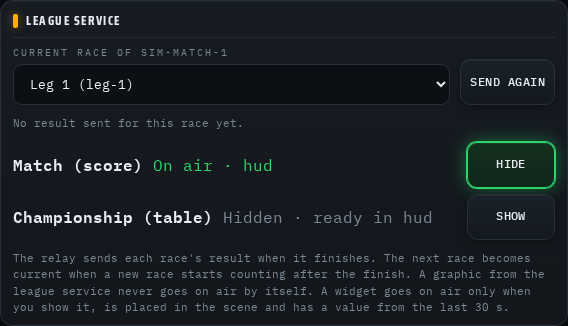
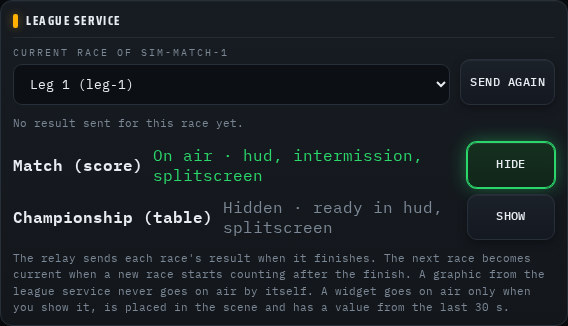
fix(league): ASCII place numbers, a clean widget log line and per-scene browser checks

Changed region(s): [[0.3891, 0.6135, 0.7782, 0.7362], [0.2694, 0.4601, 0.4789, 0.5828], [0.5088, 0.4601, 0.7482, 0.4908]]

diff --git a/tools/e2e-league-widgets.py b/tools/e2e-league-widgets.py
@@ -22,7 +22,7 @@ from unittest.mock import patch
 ROOT = Path(__file__).resolve().parents[1]
 sys.path.insert(0, str(ROOT / "tests"))
 sys.path.insert(0, str(ROOT / "tools" / "event-sim" / "fakes"))
-import e2e_safety  # noqa: E402,F401  local runs take the e2e resource boundary
+import e2e_safety  # noqa: E402
 import test_console_gate as gate  # noqa: E402
 import test_racecast as cli  # noqa: E402
 import test_ui_server as ui  # noqa: E402
@@ -34,6 +34,7 @@ from test_league_result import _Source  # noqa: E402
 
 KEY = "e2e-league-widgets-key"
 HOSTILE = '<img src=x onerror="window.__pwned=1">'
+SCENES = (("hud", 1460, "/hud"), ("intermission", 300, "/intermission"), ("splitscreen", 700, "/splitscreen/hud"))
 SNAP = {"mode": "race", "state": "racing", "lap": 12, "entries": [
     {"pos": 1, "entry": "e1", "driver": "Ann Weber", "team": "Red Bulls", "laps": 12},
     {"pos": 2, "entry": "e2", "driver": "Bo Lind", "team": "Blue Sharks", "laps": 12},
@@ -78,11 +79,27 @@ def builder(page, overlay, shots):
     assert "#league-widget-standings { left: 1460px; top: 330px; width: 420px; height: 330px; font-size: 24px;" in css, css
     if shots:
         page.locator("#ov-modal .ovmodal-card").screenshot(path=str(ROOT / "src/docs/wiki/images/cc-league-widgets.png"))
+    for scene, left, _path in SCENES[1:]:
+        page.select_option("#ov-scene", scene)
+        page.wait_for_function("(s) => ovState.page === s", arg=scene)
+        placed = page.evaluate("ovState.slots.some(s => s.id === 'league-widget-match-score')")
+        assert placed == (scene == "splitscreen"), f"{scene}: a new Split layout starts from the HUD's, {placed}"
+        if not placed:
+            page.click("#league-open")
+            dialog.get_by_role("button", name="Place in this scene").first.click()
+            dialog.get_by_role("button", name="Close", exact=True).click()
+        page.select_option("#ov-slotpick", "league-widget-match-score")
+        page.evaluate("(v) => { const f = ovState.fields.left; f.value = v; f.dispatchEvent(new Event('input'));"
+                      " f.dispatchEvent(new Event('change')); }", left)
+        page.evaluate("saveOverlay()")
+        page.wait_for_function("() => document.getElementById('overlay-save').textContent.includes('Saved')")
+    page.select_option("#ov-scene", "hud")
+    page.wait_for_function("() => ovState.page === 'hud' && ovState.shadow.getElementById('league-widget-match-score')")
     page.evaluate("(label) => RacecastLeague.render(ovState.shadow, {widgets: [{id: 'match-score', form: 'score',"
                   " title: 'Match', holdFor: null, value: {values: [{label, value: '1'}]}}]})", HOSTILE)
     assert score.locator(".lw-label").text_content() == HOSTILE, "the canvas sets a label as text"
     assert score.locator("img").count() == 0 and not page.evaluate("window.__pwned")
-    print("  [PASS] the builder places both widgets with their sample values and saves their style")
+    print("  [PASS] the builder places the widgets per scene with their sample values and saves their style")
 
 
 def live_pages(browser, relay_port, sim, shots):
@@ -109,6 +126,16 @@ def live_pages(browser, relay_port, sim, shots):
     assert hud.locator("#league-widget-match-score .lw-label").text_content() == HOSTILE
     assert hud.locator("#league-widget-match-score img").count() == 0 and not hud.evaluate("window.__pwned")
     sim.clear_answers()
+    for _scene, left, path in SCENES[1:]:
+        view = browser.new_page(viewport={"width": 1920, "height": 1080})
+        view.on("pageerror", lambda error: errors.append(str(error)))
+        view.goto(f"http://127.0.0.1:{relay_port}{path}")
+        view.wait_for_function("() => !document.getElementById('league-widget-match-score').hidden")
+        box = view.locator("#league-widget-match-score").bounding_box()
+        assert box["x"] == left, f"{path}: each scene keeps its own placement: {box}"
+        placed = 2 if path == "/splitscreen/hud" else 1      # the Split layout started from the HUD's
+        assert view.locator("[data-league-widget]").count() == placed, f"{path}: only the placed widgets"
+        view.close()
     panel.wait_for_function("() => document.querySelector('#leagueWidgets .lwrow .lwstate').textContent.startsWith('On air')")
     if shots:
         panel.locator("#leagueSec").screenshot(path=str(ROOT / "src/docs/wiki/images/director-panel-league.png"))
@@ -164,7 +191,8 @@ def main():
 
         def handler(*a, **kw):
             kw.update(overlay_dir=str(overlay), hud_source=SimpleNamespace(data=lambda: {}),
-                      hud_path=str(ROOT / "src/obs/hud.html"), league_live=live, league_exporter=exporter)
+                      hud_path=str(ROOT / "src/obs/hud.html"), intermission_path=str(ROOT / "src/obs/intermission.html"),
+                      league_live=live, league_exporter=exporter)
             return original_handler(*a, **kw)
 
         with patch.object(gate.m, "make_handler", side_effect=handler):
@@ -191,4 +219,7 @@ def main():
 
 
 if __name__ == "__main__":
+    contained = e2e_safety.enter(__file__, sys.argv[1:])
+    if contained is not None:
+        raise SystemExit(contained)
     main()

diff --git a/src/scripts/league_widgets.py b/src/scripts/league_widgets.py
@@ -11,6 +11,7 @@ text: the markup carries no service text but the escaped builder label. Stdlib o
 import html
 import json
 import os
+import re
 import tempfile
 import threading
 
@@ -160,6 +161,7 @@ def placements(overlay_dir):
 
 
 ACTIONS = ("show", "hide", "toggle")
+PLACE_RE = re.compile(r"[1-9]")      # ASCII only: str.isdigit() also takes "²"
 
 
 def order_key(snap):
@@ -237,7 +239,7 @@ class Live:
         if action not in ACTIONS:
             return False, "action must be show, hide or toggle"
         ids = [w["id"] for w in self._event_widgets()]
-        if isinstance(target, str) and target.isdigit() and len(target) <= 2:
+        if isinstance(target, str) and PLACE_RE.fullmatch(target):
             n = int(target)
             if not 1 <= n <= len(ids):
                 return False, f"the event lists {len(ids)} widget(s)"

diff --git a/src/relay/racecast-feeds.py b/src/relay/racecast-feeds.py
@@ -12562,7 +12562,8 @@ def make_handler(relay, panel_path=None, hud_source=None, hud_path=None, assets_
                 ok, out = league_live.set(sub[1], sub[2])
                 if not ok:
                     return self._send({"ok": False, "error": out}, 400)
-                LOG.info("league widget %s: %s", out, sub[2])
+                LOG.info("league widget %s: %s", out.replace("\r", "").replace("\n", ""),
+                         sub[2].replace("\r", "").replace("\n", ""))
                 return self._send({"ok": True, "id": out, "action": sub[2]}, no_store=True)
             if league_exporter is None:
                 return self._send({"error": "league result export unavailable"}, 404)

diff --git a/tests/test_league_widgets.py b/tests/test_league_widgets.py
@@ -269,7 +269,8 @@ def t_the_switch_refuses_a_widget_the_event_does_not_list():
     with tempfile.TemporaryDirectory() as d, league_sim.LeagueSim(key=KEY) as sim:
         live, _snap = _live(d, sim)
         for target, action in (("3", "show"), ("0", "show"), ("other", "show"), ("../x", "show"),
-                               ("match-score", "flip"), ("x" * 40, "show")):
+                               ("match-score", "flip"), ("x" * 40, "show"), ("\u00b2", "show"),
+                               ("\u0661", "show"), ("01", "show")):
             ok, why = live.set(target, action)
             assert not ok and why, (target, action)
 

diff --git a/tools/e2e.py b/tools/e2e.py
@@ -778,6 +778,7 @@ def _check_league_live(base, sim, home, until):
     assert all(1.5 <= g <= 3.0 for g in gaps[-2:]), f"one live state every two seconds: {gaps}"
     body = calls[-1]["body"]
     assert (body["ref"], body["race"], body["mode"]) == (league_sim.DEFAULT_REF, "leg-1", "race"), body
+    assert body["entries"], f"the roster stands in the live state: {body}"
     for row in body["entries"]:
         assert not {"fuel_l", "compound", "x", "z"} & set(row), row
     assert calls[-1]["user_agent"].startswith("racecast/"), calls[-1]

diff --git a/src/docs/wiki/Director.md b/src/docs/wiki/Director.md
@@ -655,13 +655,14 @@ Scenes, feeds and per-feed quality: the live production controls.
 
 Every graphic overlay in one place: the race-condition flags, the flag graphics,
 the pre-race info and starting-grid boards, the standings/results/weather overlays,
-and the per-row grid reveals. The flag rows are colour-coded; the overlay toggles
+the league widget switches and the per-row grid reveals. The flag rows are colour-coded; the overlay toggles
 stay dark and light up while their graphic is on air.
 
 | Row | Buttons |
 |-----|---------|
 | **Flag** | `FLAG GREEN`, `FLAG YELLOW`, `SAFETY CAR`, `FCY` (Full Course Yellow), `RED FLAG`, `CLEAR FLAG`, each sets (or clears) the colour-coded **race-condition flag** HUD element (`/setup/set/flag/<state>`, `CLEAR FLAG` → `/setup/clear/flag`). The flag's vocabulary comes from the sheet's Configuration **Flag** column; these buttons cover the canonical states |
 | **Flag Gfx** | `GFX GREEN`, `GFX YELLOW`, `GFX SC`, `GFX VSC`, `GFX RED`, `GFX CLEAR`: toggles a full-screen flag-status **graphic overlay** in the Stint and Splitscreen scenes, or in Program in solo (`/obs/flag/set/<key>`, `GFX CLEAR` → `/obs/flag/clear`). Exactly one is active at a time; pressing a new one hides the previous. These are the *graphic* alternative to the Flag row above, the two controls are independent |
+| **League widgets** (end of the Flag Gfx row) | `LEAGUE WIDGET 1`, `LEAGUE WIDGET 2`: show or hide the first and second widget of the loaded league event (`/league/widget/<n>/toggle`), like **SHOW**/**HIDE** in the Director Panel's League service card. Without a loaded event or that many widgets the key does nothing |
 | **Info + grid** | `Weekend Info`, `Race Info`, `Next Event`: pre-race full-screen Stint graphics, each an independent toggle like Standings, plus `Starting Grid`, the full starting-grid board |
 | **Graphics & weather** | `Standings`, `Schedule`, `Race Results`, `Quali Results`, `Standby Toggle` (incident cover: see [The race](#through-the-broadcast-scene--hud-cues)), `Weather Race (1) Toggle`, `Weather Race (2) Toggle`, `Weather Quali Toggle`, the three weather buttons are full-screen Stint overlays, each an independent toggle like Standings/Results. Every button in this row and the next two goes through the relay (`/obs/graphic/toggle/<source>`), which picks the Stint scene, or Program in solo |
 | **Grid rows** | `Grid R1`…`Grid R8`: one full-screen graphic per starting-grid row, each an independent toggle. Each shows the two cars of its row on its own; the `Starting Grid` board shows the whole field |
